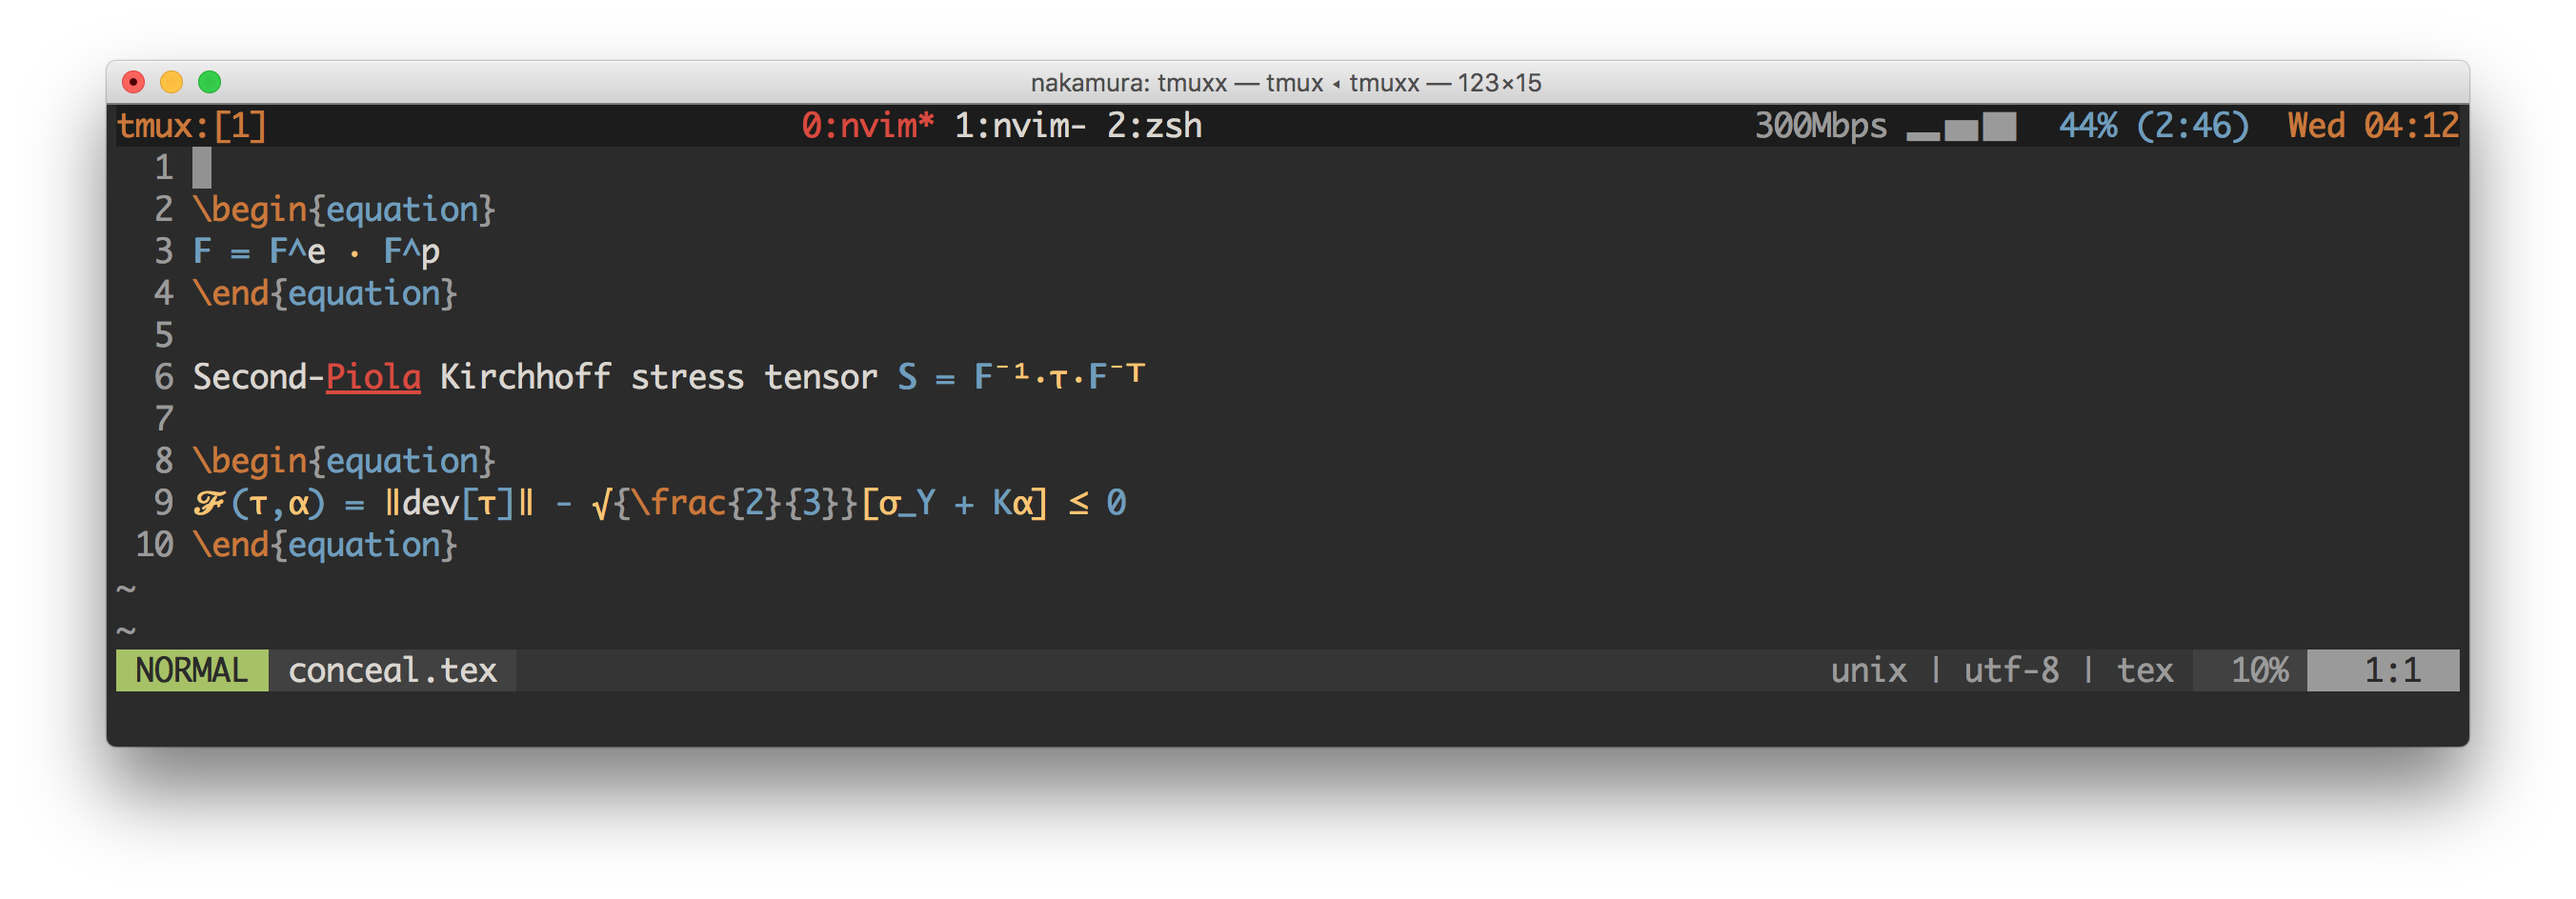
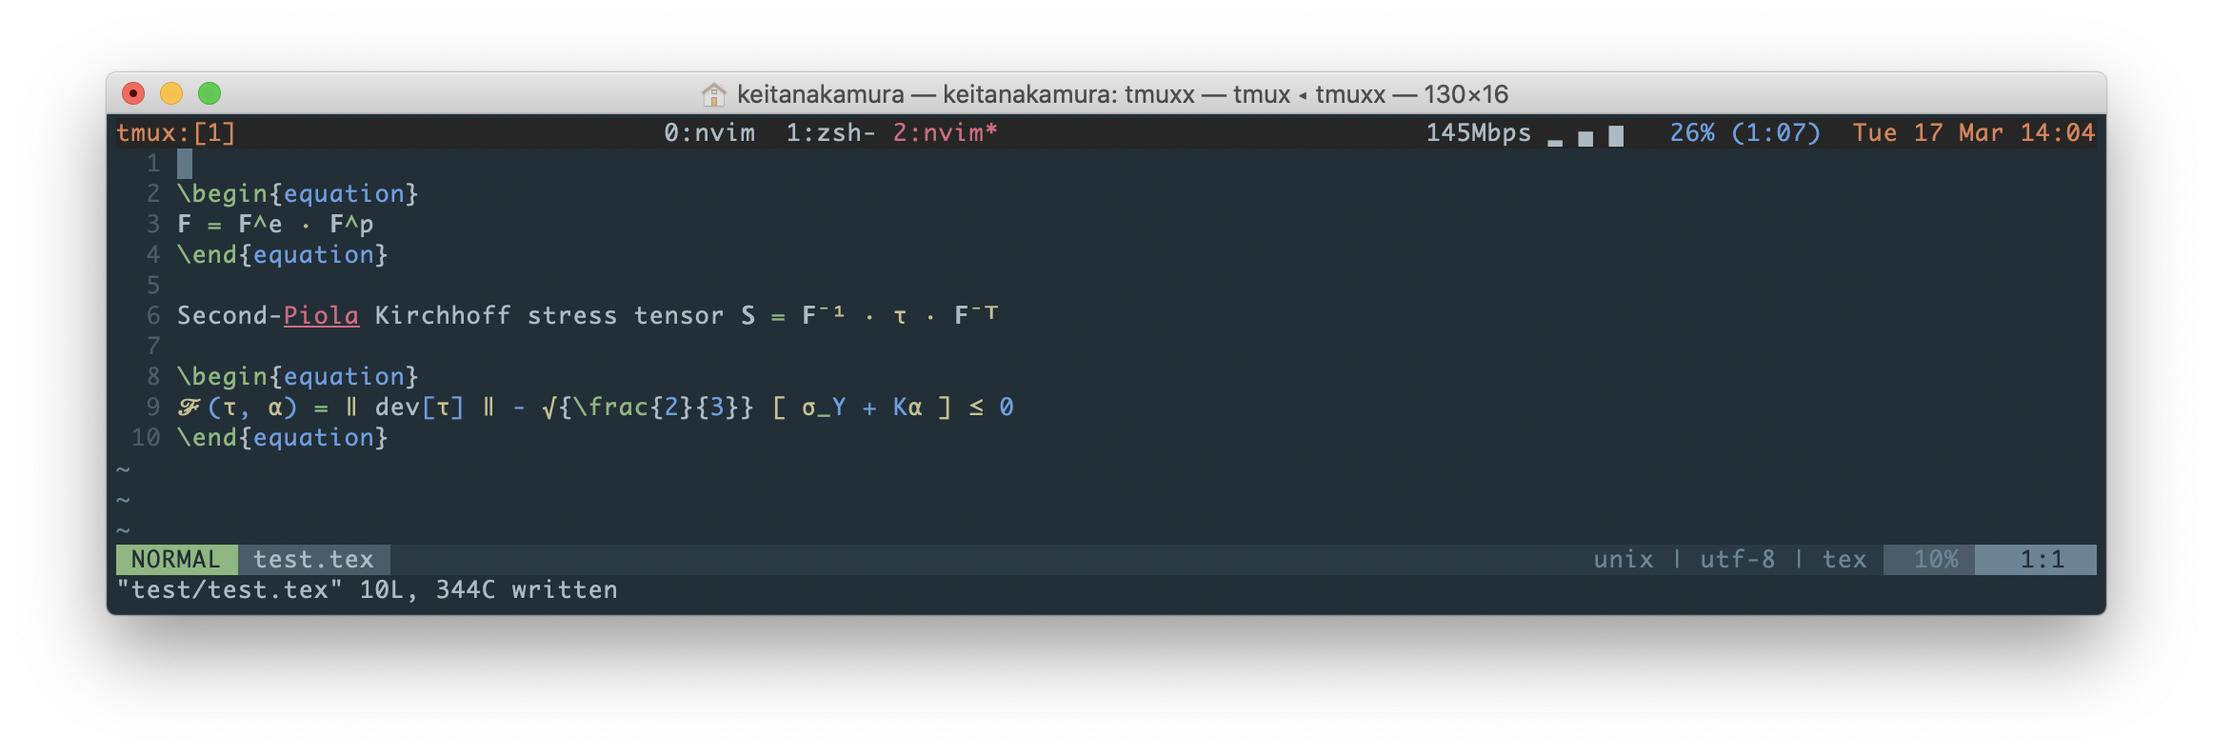
Update screenshots in README

Changed region(s): [[0.031, 0.0605, 0.9604, 0.9068]]

diff --git a/test/test.tex b/test/test.tex
@@ -3,8 +3,8 @@
 \bm{F} = \bm{F}^\mathrm{e} \cdot \bm{F}^\mathrm{p}
 \end{equation}
 
-Second-Piola Kirchhoff stress tensor $\bm{S} = \bm{F}^{-1}\cdot\bm{\tau}\cdot\bm{F}^\mathrm{-T}$
+Second-Piola Kirchhoff stress tensor $\bm{S} = \bm{F}^{-1} \cdot \bm{\tau} \cdot \bm{F}^\mathsf{-T}$
 
 \begin{equation}
-\mathscr{F} (\bm{\tau},\alpha) = \|\mathrm{dev}[\bm{\tau}]\| - \sqrt{\frac{2}{3}}\left[\sigma_Y + K\alpha\right] \le 0
+\mathscr{F} (\bm{\tau}, \alpha) = \| \mathrm{dev}[\bm{\tau}] \| - \sqrt{\frac{2}{3}} \left[ \sigma_Y + K\alpha \right] \le 0
 \end{equation}
